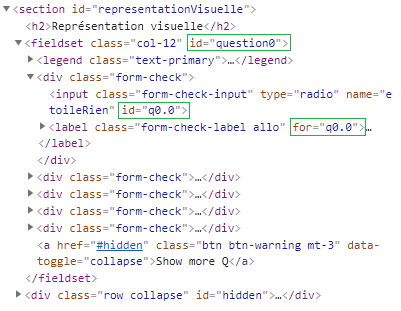
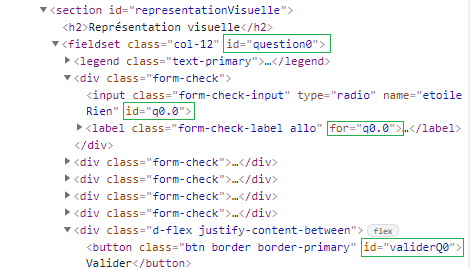
:tade: version 1 ok : login, logup, post/get data

Changed region(s): [[0.0, 0.0, 0.9875, 1.0]]

diff --git a/form_Meo/form.html b/form_Meo/form.html
@@ -27,9 +27,15 @@
         <a href="charts/chartsTuto.html">
             lien temp vers charts
         </a>
-        <a href="outilsConception/capture_console_id&for.png">
-            lien temp vers outilsConception : capture d'écran de nommage champs form (getPostQ.js //* )
-        </a>
+        <ul>
+            <a href="outilsConception">
+                lien temp vers outilsConception : 
+            </a>
+            <li>capture d'écran de nommage champs form (getPostQ.js) <em>(parce que j'ai galéré sa mère donc je me vante maintenant)</em></li>
+            <li>structure de data/Q (getPostQ.js)</li>
+            <li>structure de user - inscription (logInUp.js)</li>
+            <li>Affichage datas de Q1 avec 10 réponses</li>
+        </ul>
         <div>
             <h2>Introduction</h2>
             <form class="row d-flex align-items-end mt-3">
@@ -233,7 +239,10 @@
                             J'ai une étoile nette et rouge, je la visualise
                         </label>
                     </div>
-                    <a href="#hidden" class="btn btn-warning mt-3" data-toggle="collapse">Show more Q</a> 
+                    <div class="d-flex justify-content-between">
+                        <button class="btn border border-primary">Valider</button>
+                        <a href="#hidden" class="btn btn-warning" data-toggle="collapse">Show more Q</a> 
+                    </div>
                 </fieldset>
                 
                 <div class="row collapse" id="hidden">
@@ -253,6 +262,7 @@
                                 Non
                             </label>
                         </div>
+                        <button class="btn border border-warning">Valider</button>
                     </fieldset>
     
                     <fieldset class="col-10 m-auto fieldsetHidden">
@@ -284,6 +294,8 @@
                             <label class="form-check-label" for="couleurFormePeutEtre">
                                 Peut-être, mais je n'obtiens pas la bonne couleur et/ou la forme change
                             </label>
+                        </div>
+                        <button class="btn border border-warning">Valider</button>
                     </fieldset>
     
                     <fieldset class="col-10 m-auto fieldsetHidden">
@@ -309,7 +321,10 @@
                                 Non, je dois supprimer l'étoile et en penser une nouvelle
                             </label>
                         </div>
-                        <a href="#subHidden" class="btn btn-danger mt-3" data-toggle="collapse">More Q ?</a> 
+                        <div class="d-flex justify-content-between">
+                            <button class="btn border border-warning">Valider</button>
+                            <a href="#subHidden" class="btn btn-danger" data-toggle="collapse">More Q ?</a> 
+                        </div>
                     </fieldset>
                     <!-- <div class="row collapse" id="hidden">
                         <fieldset class="col-10 m-auto fieldsetHidden"> -->
@@ -344,6 +359,7 @@
                                     Dans ma tête
                                 </label>
                             </div>
+                            <button class="btn border border-danger">Valider</button>
                         </fieldset>
                     </div>
                 </div>
@@ -385,6 +401,7 @@
                             <small class="form-text">secondes</small>
                         </div>
                     </div>
+                    <button class="btn border border-primary">Valider</button>
                 </fieldset>
 
                 <fieldset class="col-12">
@@ -463,6 +480,7 @@
                             </label>
                         </div>
                     </div>
+                    <button class="btn border border-primary">Valider</button>
                 </fieldset>
 
                 <fieldset class="col-12">
@@ -495,6 +513,7 @@
                             Je peux ajouter une feuille à ce petit bout de branche
                         </label>
                     </div>
+                    <button class="btn border border-primary">Valider</button>
                 </fieldset>
 
                 <fieldset class="col-12">
@@ -524,6 +543,7 @@
                             </small>
                         </div>
                     </div> -->
+                    <button class="btn border border-primary">Valider</button>
                 </fieldset>
 
                 <p class="text-danger">ça y est ça me gonfle</p>
@@ -554,7 +574,8 @@
     ></script>
     
     <script src="logInUp.js" type="text/javascript"></script>
-    <script src="getPostQ.js" type="text/javascript"></script>
+    <script src="postQ.js" type="text/javascript"></script>
+    <script src="getData.js" type="text/javascript"></script>
     <script src="deco.js" type="text/javascript"></script>
 </body>
 </html>

diff --git a/form_Meo/postQ.js b/form_Meo/postQ.js
@@ -1,0 +1,71 @@
+//* QUESTIONS
+
+    //* NOMMAGE DES CHAMPS
+// (ça n'a l'air de rien là comme ça mais il m'a fallu autant de temps que si je les avais
+// nommés un par un dans le html donc je suis même pas sûre que ça soit rentable,
+// t'as intérêt à faire un formulaire 2.0 et même un 3.0)
+
+//! Que va faire ce bout de code quand il n'y aura pas de label juste après input ? (cas des range)
+//* Dans la section 1 représentation visuelle, en fonction du nombre de fieldset
+for (let x = 0; x < $('#representationVisuelle fieldset').length; x++) {
+
+    //* On nomme chaque fieldset avec un numéro de question
+    //todo NB : c'est une class et pas un id car on a des id "hidden" pour les toggle btn //Du coup j'ai mis les truc toggle dans des div
+    $(`#representationVisuelle fieldset:eq(${x})`).attr('id', `question${x}`);
+    $(`#representationVisuelle fieldset:eq(${x}) button`).attr('id', `validerQ${x}`);
+
+    //* On nomme les inputs et les labels de ce fieldset en fonction du numéro de question
+    for (let i = 0; i < $(`#question${x} input`).length; i++) {
+        $(`#question${x} input:eq(${i})`).attr('id', `q${x}.${i}`);
+        $(`#question${x} input:eq(${i})`).attr('name', `q${x}`);
+        $(`#question${x} input:eq(${i}) + label`).attr('for', `q${x}.${i}`);
+    }
+}
+
+    //* CAPTAGE DE DATA (question 1, voir si généralisable)
+
+    //*Envoyer data de Q à la DB
+    const PostQuestion = async function(questionInfo) {
+        fetch('http://localhost:3000/api/question', {
+            method: "POST",
+            headers : {
+                'Accept' : 'application/json',
+                'Content-type': 'application/json'
+            },
+            body: JSON.stringify(questionInfo)
+        })
+        .then(response => response.json())
+        .then(json => {
+            console.log(json);
+        })
+        .catch((e) => {
+            console.log(e);
+        })
+    }
+
+    //* Capturer les values des inputs
+$('#validerQ0').on('click', function(e) {
+    e.preventDefault();
+
+    //input
+    console.log($(`#question0 input:checked`)); // Oooooh :O
+    console.log($(`#question0 input:checked`).attr('id'));
+    console.log($(`#question0 input:checked`).attr('id').charAt(3)); //Aaaah :O
+
+
+    
+    let questionInfo = {
+        num : 0, //num de question
+        data : [$(`#question0 input:checked`).attr('id').charAt(3)], //réponse user
+        cat: true, //question obligatoire ou non
+        section: 'representation visuelle' //sous-partie du questionnaire
+    }
+    
+    console.log(questionInfo);
+    
+    PostQuestion(questionInfo);
+
+    //! DisableQuestion(questionInfo.num)
+    
+});
+    

diff --git a/form_Meo/backend/app.js b/form_Meo/backend/app.js
@@ -21,17 +21,18 @@ app.use((req, res, next) => {
 
 app.use(express.json());
 
-app.post('/api/article', (req, res, next) => {
+//* post question ok !
+app.post('/api/question', (req, res, next) => {
     delete req.body._id;
-    const article = new Article({
+    const question = new Question({
       ...req.body
     });
-    article.save()
-      .then(() => res.status(201).json({ message: 'Article enregistré !', article : article}))
+    question.save()
+      .then(() => res.status(201).json({ message: 'Datas enregistrés !', question : question}))
       .catch(error => res.status(400).json({ error }));
 });
 
-//* User POST 1 OK !
+//* User logup OK !
 app.post('/api/user/logup', (req, res, next) => {
     bcrypt.hash(req.body.mail, 10)
     .then(hash => {
@@ -59,8 +60,7 @@ app.get('/api/article/:id', (req, res, next) => {
       .catch(error => res.status(404).json({ error }));
   });
 
-//* User get 1 
-//? crypter le pass ici ? 
+//* User login ok !
 app.post('/api/user/login', (req, res, next) => { //? api.get & api/pass/:id
     User.findOne({ pseudo: req.body.pseudo })
       .then(user => {
@@ -98,9 +98,9 @@ app.delete('/api/article/:id', (req, res, next) => {
 });
 
 // GET
-app.use('/api/article', (req, res, next) => {
-    Article.find()
-        .then(articles => res.status(200).json(articles))
+app.use('/api/question', (req, res, next) => {
+    Question.find()
+        .then(questions => res.status(200).json(questions))
         .catch(error => res.status(400).json({ error }));
 });
 

diff --git a/form_Meo/getData.js b/form_Meo/getData.js
@@ -1,0 +1,22 @@
+//* Afficher les données
+
+const GetData = async function() {
+    return await fetch('http://localhost:3000/api/question')
+    .then(response => response.json())
+    .then(json => {
+        console.log(json);
+        DisplayQuestion(json);
+    })
+    .catch((e) => console.log(e))
+}
+GetData();
+
+function DisplayQuestion(data) {
+    // console.log(data);
+    // console.log(data.data);
+    let datatab = []
+    for (let i = 0; i < data.length; i++) {
+        datatab.push(JSON.parse(data[i].data[0]));
+    }
+    console.log(datatab);
+}

diff --git a/form_Meo/logInUp.js b/form_Meo/logInUp.js
@@ -81,8 +81,8 @@ $('#WhoAreYou').on('click', function(e) {
         mail : $('#email').val(),
         password : $('#passwordUp').val()
     }
+
     console.log(userInfo);
     
-    PostNewUser(userInfo);
-    
+    PostNewUser(userInfo);  
 });

diff --git a/form_Meo/README.md b/form_Meo/README.md
@@ -1,1 +1,5 @@
 Donner des id aux fieldset : ex : question1
+
+Les datas de la questions doivent être reliées aux infos d'identification.
+local storage ?
+Ou alors pas forcément en fait, questionnaire anonyme, juste s'assurer que la même personne répond pas 15 fois
